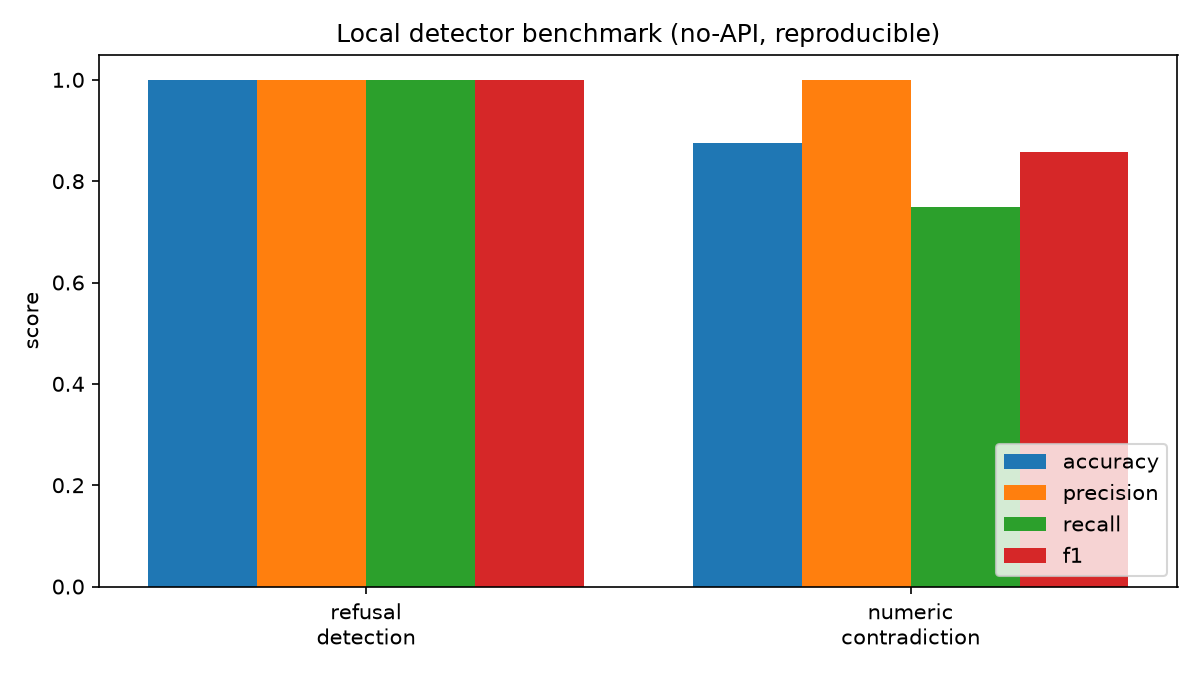
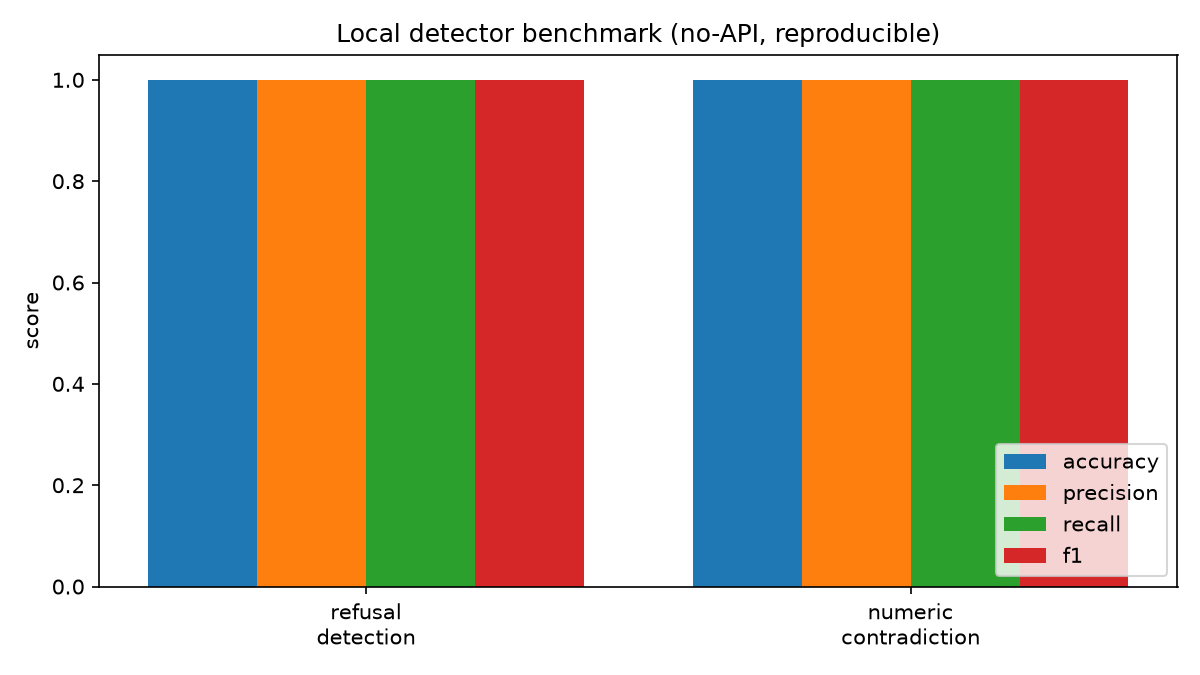
Embedding-gated numeric contradiction detection (recall 0.75 -> 1.00)
The detector gated on shared context *words* before comparing numbers, so it
missed contradictions when the wording differed ("90% of patients" vs "45% of
patients" — "symptoms" vs "improvement"). Now it:

- splits number-bearing sentences from the answer and the retrieved docs,
- embeds them with all-MiniLM-L6-v2 (the configured EMBED_MODEL),
- compares numbers only when the best-matching sentence pair is semantically
  similar (cosine >= 0.45), flagging a contradiction when a same-unit number has
  no match within rel_tol.

Threshold tuned empirically: same-fact short sentences score ~0.5-0.75 on this
model while cross-topic pairs score ~0.2-0.35, so 0.45 separates them; a naive
0.75 would miss most real contradictions. Precision stays 1.00 (revenue vs
population, price vs temperature fall below threshold).

Local benchmark: numeric_contradiction 0.88->1.00 accuracy, 0.75->1.00 recall.
Added a regression test for the paraphrased-subject case. Tests: 107 passed.

Changed region(s): [[0.74, 0.0933, 0.9558, 0.3111], [0.555, 0.0933, 0.6783, 0.2178]]

diff --git a/src/evaluators/groundedness.py b/src/evaluators/groundedness.py
@@ -123,10 +123,11 @@ def verify_citation_support(answer: str, retrieved_docs: List[Dict]) -> Dict[str
 
 
 # --- Numeric contradiction detection (Revenue=12M in docs vs LLM says 50M) ----
-# Pure embedding similarity treats "Revenue = 50M" and "Revenue = 12M" as nearly
-# identical (same topic) and would call the answer "supported". That is exactly
-# the failure mode that matters for grounded factual claims, so we additionally
-# compare the *numbers* attached to shared context words.
+# Old approach: gate on shared *context words* before comparing numbers. That is
+# lexically blind — "90% of patients" vs "45% of patients" describes the same
+# quantity with different surrounding words ("symptoms" vs "improvement") and was
+# missed. New approach: embed the sentences that contain numbers and gate on
+# semantic similarity, so paraphrases of the same fact are still compared.
 
 _SCALES = {
     "trillion": 1e12, "tn": 1e12,
@@ -134,20 +135,21 @@ _SCALES = {
     "million": 1e6, "mn": 1e6, "m": 1e6,
     "thousand": 1e3, "k": 1e3,
 }
-_NUM_STOPWORDS = {
-    "the", "a", "an", "is", "was", "were", "are", "of", "to", "in", "at", "on",
-    "our", "its", "their", "approximately", "about", "around", "roughly", "and",
-    "or", "for", "with", "by", "than", "over", "under", "nearly", "almost",
-}
 _NUM_RE = re.compile(
     r"\$?\s*([0-9][0-9,]*(?:\.[0-9]+)?)\s*"
     r"(trillion|billion|million|thousand|tn|bn|mn|[bmk])?\s*(%|percent)?",
     re.IGNORECASE,
 )
+_SENT_SPLIT = re.compile(r"(?<=[.!?])\s+|\n+")
+
+# Tuned for all-MiniLM-L6-v2: short factual sentences about the same quantity
+# score ~0.5-0.75, while different topics score ~0.2-0.35, so 0.45 separates
+# them cleanly. (A naive 0.75 would miss most real contradictions on this model.)
+SEM_SIM_THRESHOLD = 0.45
 
 
 def _extract_number_facts(text: str) -> List[Dict[str, Any]]:
-    """Pull (value, unit, context-words) for every number mentioned in `text`."""
+    """Pull (value, unit, raw) for every number mentioned in `text`."""
     facts: List[Dict[str, Any]] = []
     for mobj in _NUM_RE.finditer(text):
         raw = mobj.group(1)
@@ -161,42 +163,79 @@ def _extract_number_facts(text: str) -> List[Dict[str, Any]]:
         if scale_word in _SCALES:
             value *= _SCALES[scale_word]
         unit = "percent" if mobj.group(3) else "number"
-        # Context = salient words in the ~6 chars... actually ~5 words before.
-        prefix = text[: mobj.start()].lower()
-        words = re.findall(r"[a-z]+", prefix)[-5:]
-        context = {w for w in words if w not in _NUM_STOPWORDS and len(w) > 2}
-        facts.append({"value": value, "unit": unit, "context": context, "raw": mobj.group(0).strip()})
+        facts.append({"value": value, "unit": unit, "raw": mobj.group(0).strip()})
     return facts
 
 
+def _sentences_with_numbers(text: str) -> List[Dict[str, Any]]:
+    out = []
+    for sent in _SENT_SPLIT.split(text or ""):
+        sent = sent.strip()
+        facts = _extract_number_facts(sent)
+        if facts:
+            out.append({"sentence": sent, "facts": facts})
+    return out
+
+
+def _number_conflict(a_facts, d_facts, rel_tol):
+    """Return (answer_raw, doc_raw) if an answer number has no matching doc number
+    of the same unit (within rel_tol), else None."""
+    by_unit: Dict[str, List[Dict[str, Any]]] = {}
+    for f in d_facts:
+        by_unit.setdefault(f["unit"], []).append(f)
+    for af in a_facts:
+        candidates = by_unit.get(af["unit"])
+        if not candidates:
+            continue
+        matched = any(
+            abs(af["value"] - df["value"]) / max(abs(af["value"]), abs(df["value"]), 1e-9) <= rel_tol
+            for df in candidates
+        )
+        if not matched:
+            closest = min(candidates, key=lambda df: abs(af["value"] - df["value"]))
+            return af["raw"], closest["raw"]
+    return None
+
+
 def detect_numeric_contradictions(
-    answer: str, retrieved_docs: List[Dict], rel_tol: float = 0.1
+    answer: str, retrieved_docs: List[Dict],
+    rel_tol: float = 0.1, sim_threshold: float = SEM_SIM_THRESHOLD,
 ) -> Dict[str, Any]:
     """Flag numbers in `answer` that contradict numbers in the retrieved docs.
 
-    Two numbers contradict when they share a context word (e.g. "revenue") and
-    the same unit, but differ by more than `rel_tol` (relative). "27 days" vs
-    "27.3 days" (0.011) is NOT a contradiction; "50M" vs "12M" is.
+    For each answer sentence containing a number, find the most semantically
+    similar doc sentence (embeddings). If that similarity clears `sim_threshold`
+    (the sentences are about the same thing) but a number of the same unit
+    differs by more than `rel_tol`, it's a contradiction. "27 days" vs "27.3
+    days" (within tol) is not; "50M" vs "12M" revenue, or "90%" vs "45%" of
+    patients, is — even when the wording differs.
     """
-    answer_facts = _extract_number_facts(answer)
+    empty = {"contradiction_detected": False, "num_contradictions": 0, "contradictions": []}
+    answer_sents = _sentences_with_numbers(answer)
     doc_text = " ".join(d.get("text", "") for d in retrieved_docs)
-    doc_facts = _extract_number_facts(doc_text)
+    doc_sents = _sentences_with_numbers(doc_text)
+    if not answer_sents or not doc_sents:
+        return empty
+
+    m = _embed_model()
+    a_emb = m.encode([s["sentence"] for s in answer_sents], convert_to_tensor=True)
+    d_emb = m.encode([s["sentence"] for s in doc_sents], convert_to_tensor=True)
+    sims = util.cos_sim(a_emb, d_emb)
 
     contradictions: List[Dict[str, Any]] = []
-    for af in answer_facts:
-        for df in doc_facts:
-            if af["unit"] != df["unit"]:
-                continue
-            if not (af["context"] & df["context"]):
-                continue
-            denom = max(abs(af["value"]), abs(df["value"]), 1e-9)
-            if abs(af["value"] - df["value"]) / denom > rel_tol:
-                contradictions.append({
-                    "context": sorted(af["context"] & df["context"]),
-                    "answer_value": af["raw"],
-                    "doc_value": df["raw"],
-                })
-                break  # one contradiction per answer number is enough
+    for i, a in enumerate(answer_sents):
+        j = int(sims[i].argmax().item())
+        best = float(sims[i][j].item())
+        if best < sim_threshold:
+            continue
+        conflict = _number_conflict(a["facts"], doc_sents[j]["facts"], rel_tol)
+        if conflict:
+            contradictions.append({
+                "context": doc_sents[j]["sentence"],
+                "answer_value": conflict[0],
+                "doc_value": conflict[1],
+                "similarity": round(best, 3),
+            })
 
     return {
         "contradiction_detected": bool(contradictions),

diff --git a/tests/test_numeric_contradiction.py b/tests/test_numeric_contradiction.py
@@ -28,6 +28,16 @@ def test_no_shared_context_no_contradiction():
     assert out["contradiction_detected"] is False
 
 
+def test_paraphrased_subject_still_caught():
+    # Same quantity, different surrounding words. The old word-overlap detector
+    # missed this; the embedding-gated one catches it.
+    docs = [{"text": "The trial reported improvement in 45 percent of patients."}]
+    answer = "The drug reduced symptoms in 90 percent of patients."
+    out = detect_numeric_contradictions(answer, docs)
+    assert out["contradiction_detected"] is True
+    assert out["contradictions"][0]["similarity"] >= 0.45
+
+
 def test_citation_support_links_evidence():
     docs = [
         {"text": "The moon orbits the Earth at an average distance of 384,400 km."},

diff --git a/BENCHMARKS.md b/BENCHMARKS.md
@@ -18,17 +18,20 @@ Latest run:
 | Component | n | Accuracy | Precision | Recall | F1 |
 |---|---|---|---|---|---|
 | Refusal detection | 8 | 1.00 | 1.00 | 1.00 | 1.00 |
-| Numeric contradiction | 8 | 0.88 | 1.00 | 0.75 | 0.86 |
+| Numeric contradiction | 8 | 1.00 | 1.00 | 1.00 | 1.00 |
 
 ![Local detector benchmark](docs/benchmark_local.png)
 
-**Reading this honestly:** numeric-contradiction detection has perfect
-precision on the fixture (no false alarms) but recall 0.75 — it misses one true
-contradiction (*"90% of patients"* vs *"45% of patients"*) because the answer
-and document describe the same quantity with different surrounding words
-("symptoms" vs "improvement") and the detector requires a shared context word to
-compare two numbers. That is a known limitation of the lexical-context approach,
-not a tuning artifact. Embedding-aligned context matching would raise recall.
+**How numeric contradiction works (and why recall went 0.75 → 1.00):** the first
+version gated on shared *context words* before comparing numbers, so it missed
+*"90% of patients"* vs *"45% of patients"* — same quantity, different wording
+("symptoms" vs "improvement"). The detector now embeds the number-bearing
+sentences with `all-MiniLM-L6-v2` and compares numbers only when the sentences
+are *semantically* similar (cosine ≥ 0.45, tuned for this model — short factual
+sentences score ~0.5-0.75 for the same fact vs ~0.2-0.35 across topics, so a
+naive 0.75 cutoff would actually miss most real contradictions). Precision stays
+1.00 on the fixture: topically-unrelated numbers (revenue vs population, price vs
+temperature) fall below the threshold and aren't compared.
 
 ## 2. Model hallucination benchmark (requires API keys)
 